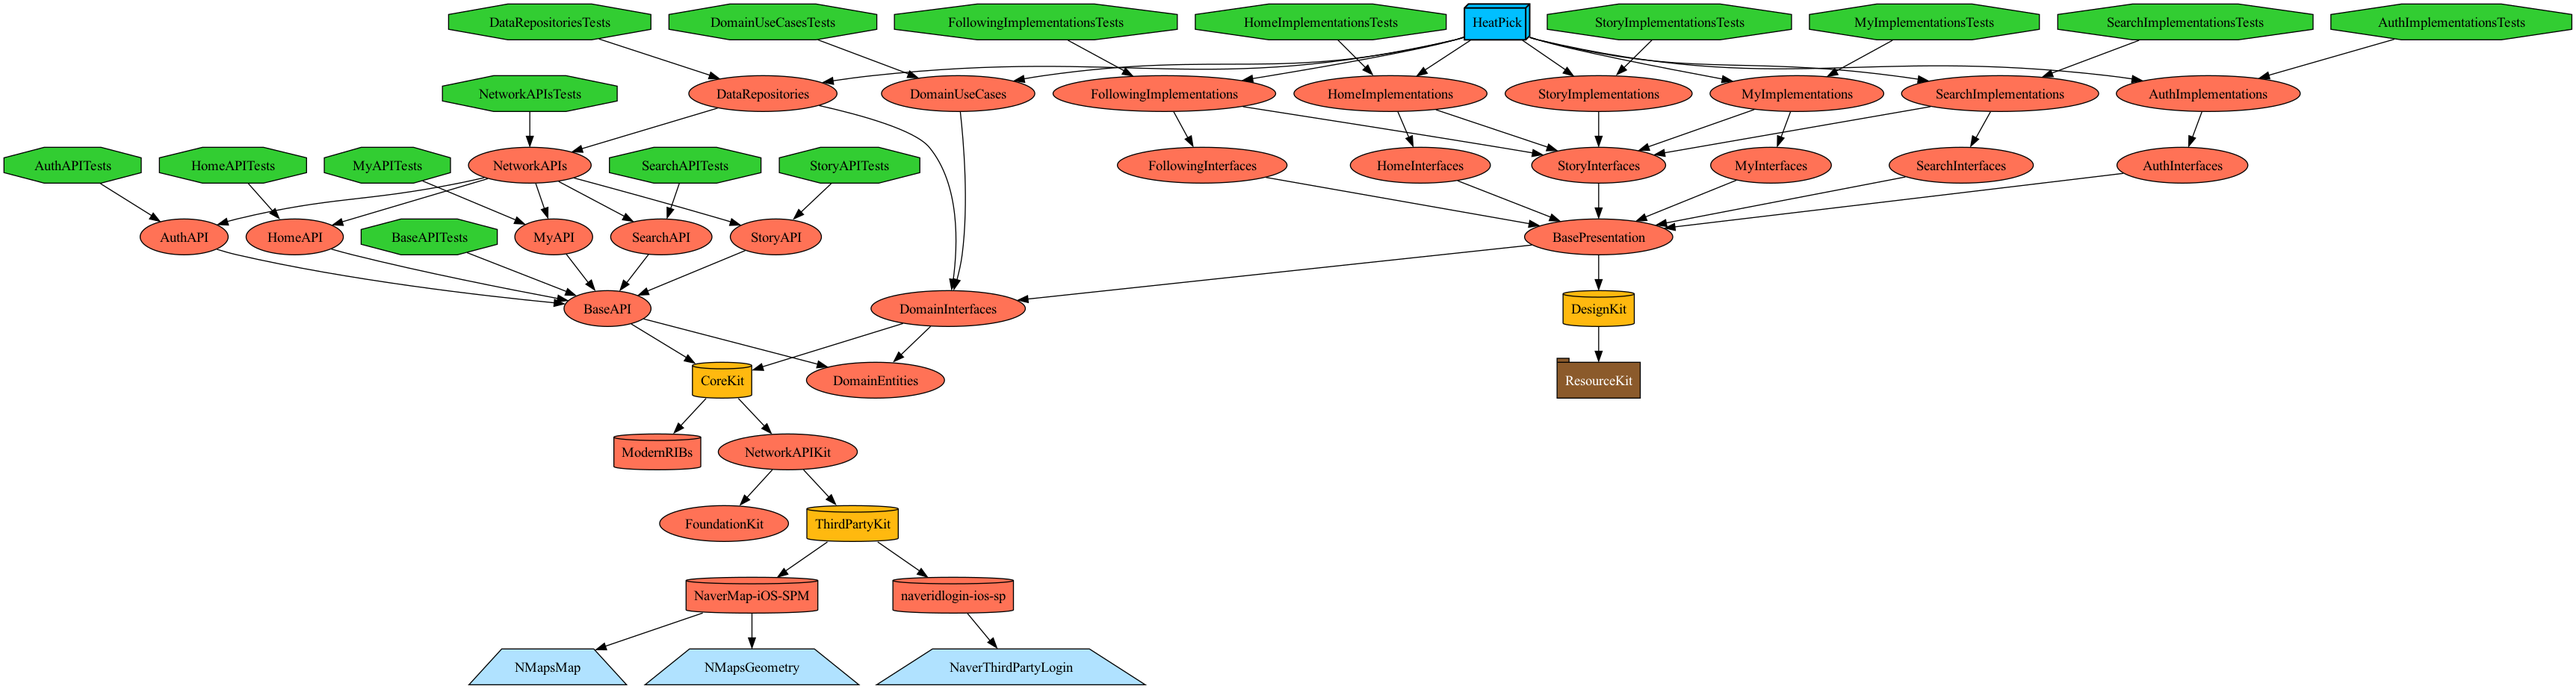
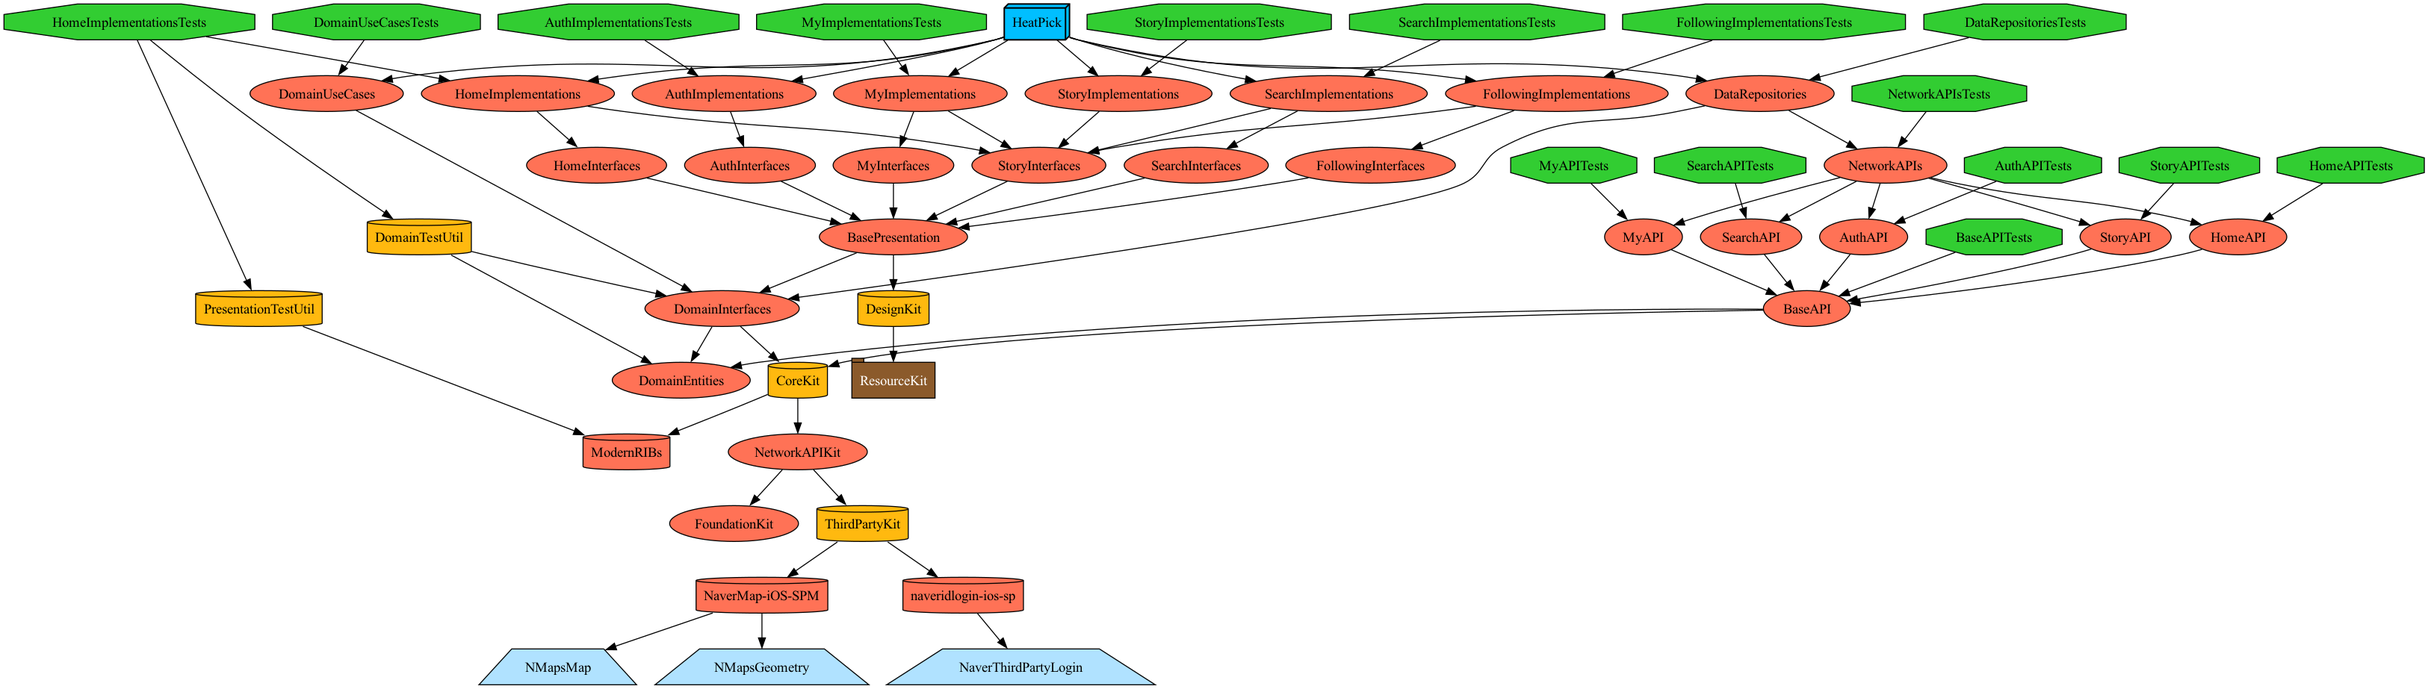
package: Test Util 추가

diff --git a/client/Targets/Presentation/TestUtil/Sources/ViewableRoutingMock.swift b/client/Targets/Presentation/TestUtil/Sources/ViewableRoutingMock.swift
@@ -1,0 +1,71 @@
+//
+//  ViewableRoutingMock.swift
+//  PresentationTestUtil
+//
+//  Created by 홍성준 on 12/4/23.
+//  Copyright © 2023 codesquad. All rights reserved.
+//
+
+import Foundation
+import ModernRIBs
+import Combine
+
+open class ViewableRoutingMock: ViewableRouting {
+    
+    public var viewControllable: ViewControllable
+    
+    public var interactableSetCallCount = 0
+    public var interactable: Interactable {
+        didSet {
+            interactableSetCallCount += 1
+        }
+    }
+    
+    public var childrenSetCallCount = 0
+    public var children: [Routing] = [Routing]() {
+        didSet {
+            childrenSetCallCount += 1
+        }
+    }
+    
+    public var lifecycleSubjectSetCallCount = 0
+    public var lifecycleSubject = PassthroughSubject<RouterLifecycle, Never>() {
+        didSet {
+            lifecycleSubjectSetCallCount += 1
+        }
+    }
+    
+    public var lifecycle: AnyPublisher<RouterLifecycle, Never> {
+        return lifecycleSubject.eraseToAnyPublisher()
+    }
+    
+    public init(
+        interactable: Interactable,
+        viewControllable: ViewControllable
+    ) {
+        self.interactable = interactable
+        self.viewControllable = viewControllable
+    }
+    
+    public var loadCallCount: Int = 0
+    public var loadAction: (() -> ())?
+    public func load() {
+        loadCallCount += 1
+        loadAction?()
+    }
+    
+    public var attachChildAction: ((_ child: Routing) -> ())?
+    public var attachChildCallCount: Int = 0
+    public func attachChild(_ child: Routing) {
+        attachChildCallCount += 1
+        attachChildAction?(child)
+    }
+    
+    public var detachChildCallCount: Int = 0
+    public var detachChildAction: ((_ child: Routing) -> ())?
+    public func detachChild(_ child: Routing) {
+        detachChildCallCount += 1
+        detachChildAction?(child)
+    }
+    
+}

diff --git a/client/Tuist/ProjectDescriptionHelpers/Project+Templates.swift b/client/Tuist/ProjectDescriptionHelpers/Project+Templates.swift
@@ -70,7 +70,8 @@ extension Project {
         deploymentTarget: DeploymentTarget = .iOS(targetVersion: "16.0", devices: .iphone),
         featureTargets: [FeatureTarget] = [.staticLibrary],
         packages: [Package] = [],
-        dependencies: [TargetDependency] = []
+        dependencies: [TargetDependency] = [],
+        testDependencies: [TargetDependency] = []
     ) -> Project {
         var targets: [Target] = []
         let bundleIDPrefix = "kr.\(organizationName).boostcamp8.heatpick"
@@ -119,7 +120,7 @@ extension Project {
                 infoPlist: .default,
                 sources: ["Tests/Sources/**"],
                 resources: [],
-                dependencies: dependencies,
+                dependencies: dependencies + testDependencies,
                 settings: .settings(configurations: [], defaultSettings: .recommended)
             )
             targets.append(target)

diff --git a/client/Plugins/UtilityPlugin/ProjectDescriptionHelpers/Dependency+Test.swift b/client/Plugins/UtilityPlugin/ProjectDescriptionHelpers/Dependency+Test.swift
@@ -1,0 +1,27 @@
+//
+//  Dependency+Test.swift
+//  UtilityPlugin
+//
+//  Created by 홍성준 on 12/4/23.
+//
+
+import Foundation
+import ProjectDescription
+
+public extension TargetDependency.Target.Presentation {
+    
+    static let TestUtil = TargetDependency.project(
+        target: "PresentationTestUtil",
+        path: .relativeToRoot("Targets/Presentation/TestUtil")
+    )
+    
+}
+
+public extension TargetDependency.Target.Domain {
+    
+    static let TestUtil = TargetDependency.project(
+        target: "DomainTestUtil",
+        path: .relativeToRoot("Targets/Domain/TestUtil")
+    )
+    
+}

diff --git a/client/Targets/Presentation/TestUtil/Sources/ViewControllableMock.swift b/client/Targets/Presentation/TestUtil/Sources/ViewControllableMock.swift
@@ -1,0 +1,23 @@
+//
+//  ViewControllableMock.swift
+//  PresentationTestUtil
+//
+//  Created by 홍성준 on 12/4/23.
+//  Copyright © 2023 codesquad. All rights reserved.
+//
+
+import Foundation
+import ModernRIBs
+import UIKit
+
+public final class ViewControllableMock: UIViewController, ViewControllable {
+    
+    public init() {
+        super.init(nibName: nil, bundle: nil)
+    }
+    
+    required public init?(coder: NSCoder) {
+        super.init(coder: coder)
+    }
+    
+}

diff --git a/client/Targets/Domain/TestUtil/Project.swift b/client/Targets/Domain/TestUtil/Project.swift
@@ -1,0 +1,12 @@
+import ProjectDescription
+import ProjectDescriptionHelpers
+import UtilityPlugin
+
+let project = Project.framework(
+    name: "DomainTestUtil",
+    featureTargets: [.framework],
+    dependencies: [
+        .Target.Domain.Interfaces,
+        .Target.Domain.Entities
+    ]
+)

diff --git a/client/Targets/Presentation/Home/Implementations/Project.swift b/client/Targets/Presentation/Home/Implementations/Project.swift
@@ -8,5 +8,9 @@ let project = Project.framework(
     dependencies: [
         .Target.Presentation.Home.Interfaces,
         .Target.Presentation.Story.Interfaces
+    ],
+    testDependencies: [
+        .Target.Presentation.TestUtil,
+        .Target.Domain.TestUtil
     ]
 )

diff --git a/client/Targets/Presentation/TestUtil/Project.swift b/client/Targets/Presentation/TestUtil/Project.swift
@@ -1,0 +1,11 @@
+import ProjectDescription
+import ProjectDescriptionHelpers
+import UtilityPlugin
+
+let project = Project.framework(
+    name: "PresentationTestUtil",
+    featureTargets: [.framework],
+    dependencies: [
+        .SPM.ModernRIBs
+    ]
+)

diff --git a/client/Targets/Domain/TestUtil/Sources/dummy.swift b/client/Targets/Domain/TestUtil/Sources/dummy.swift
@@ -1,0 +1,1 @@
+// dummy.swift
